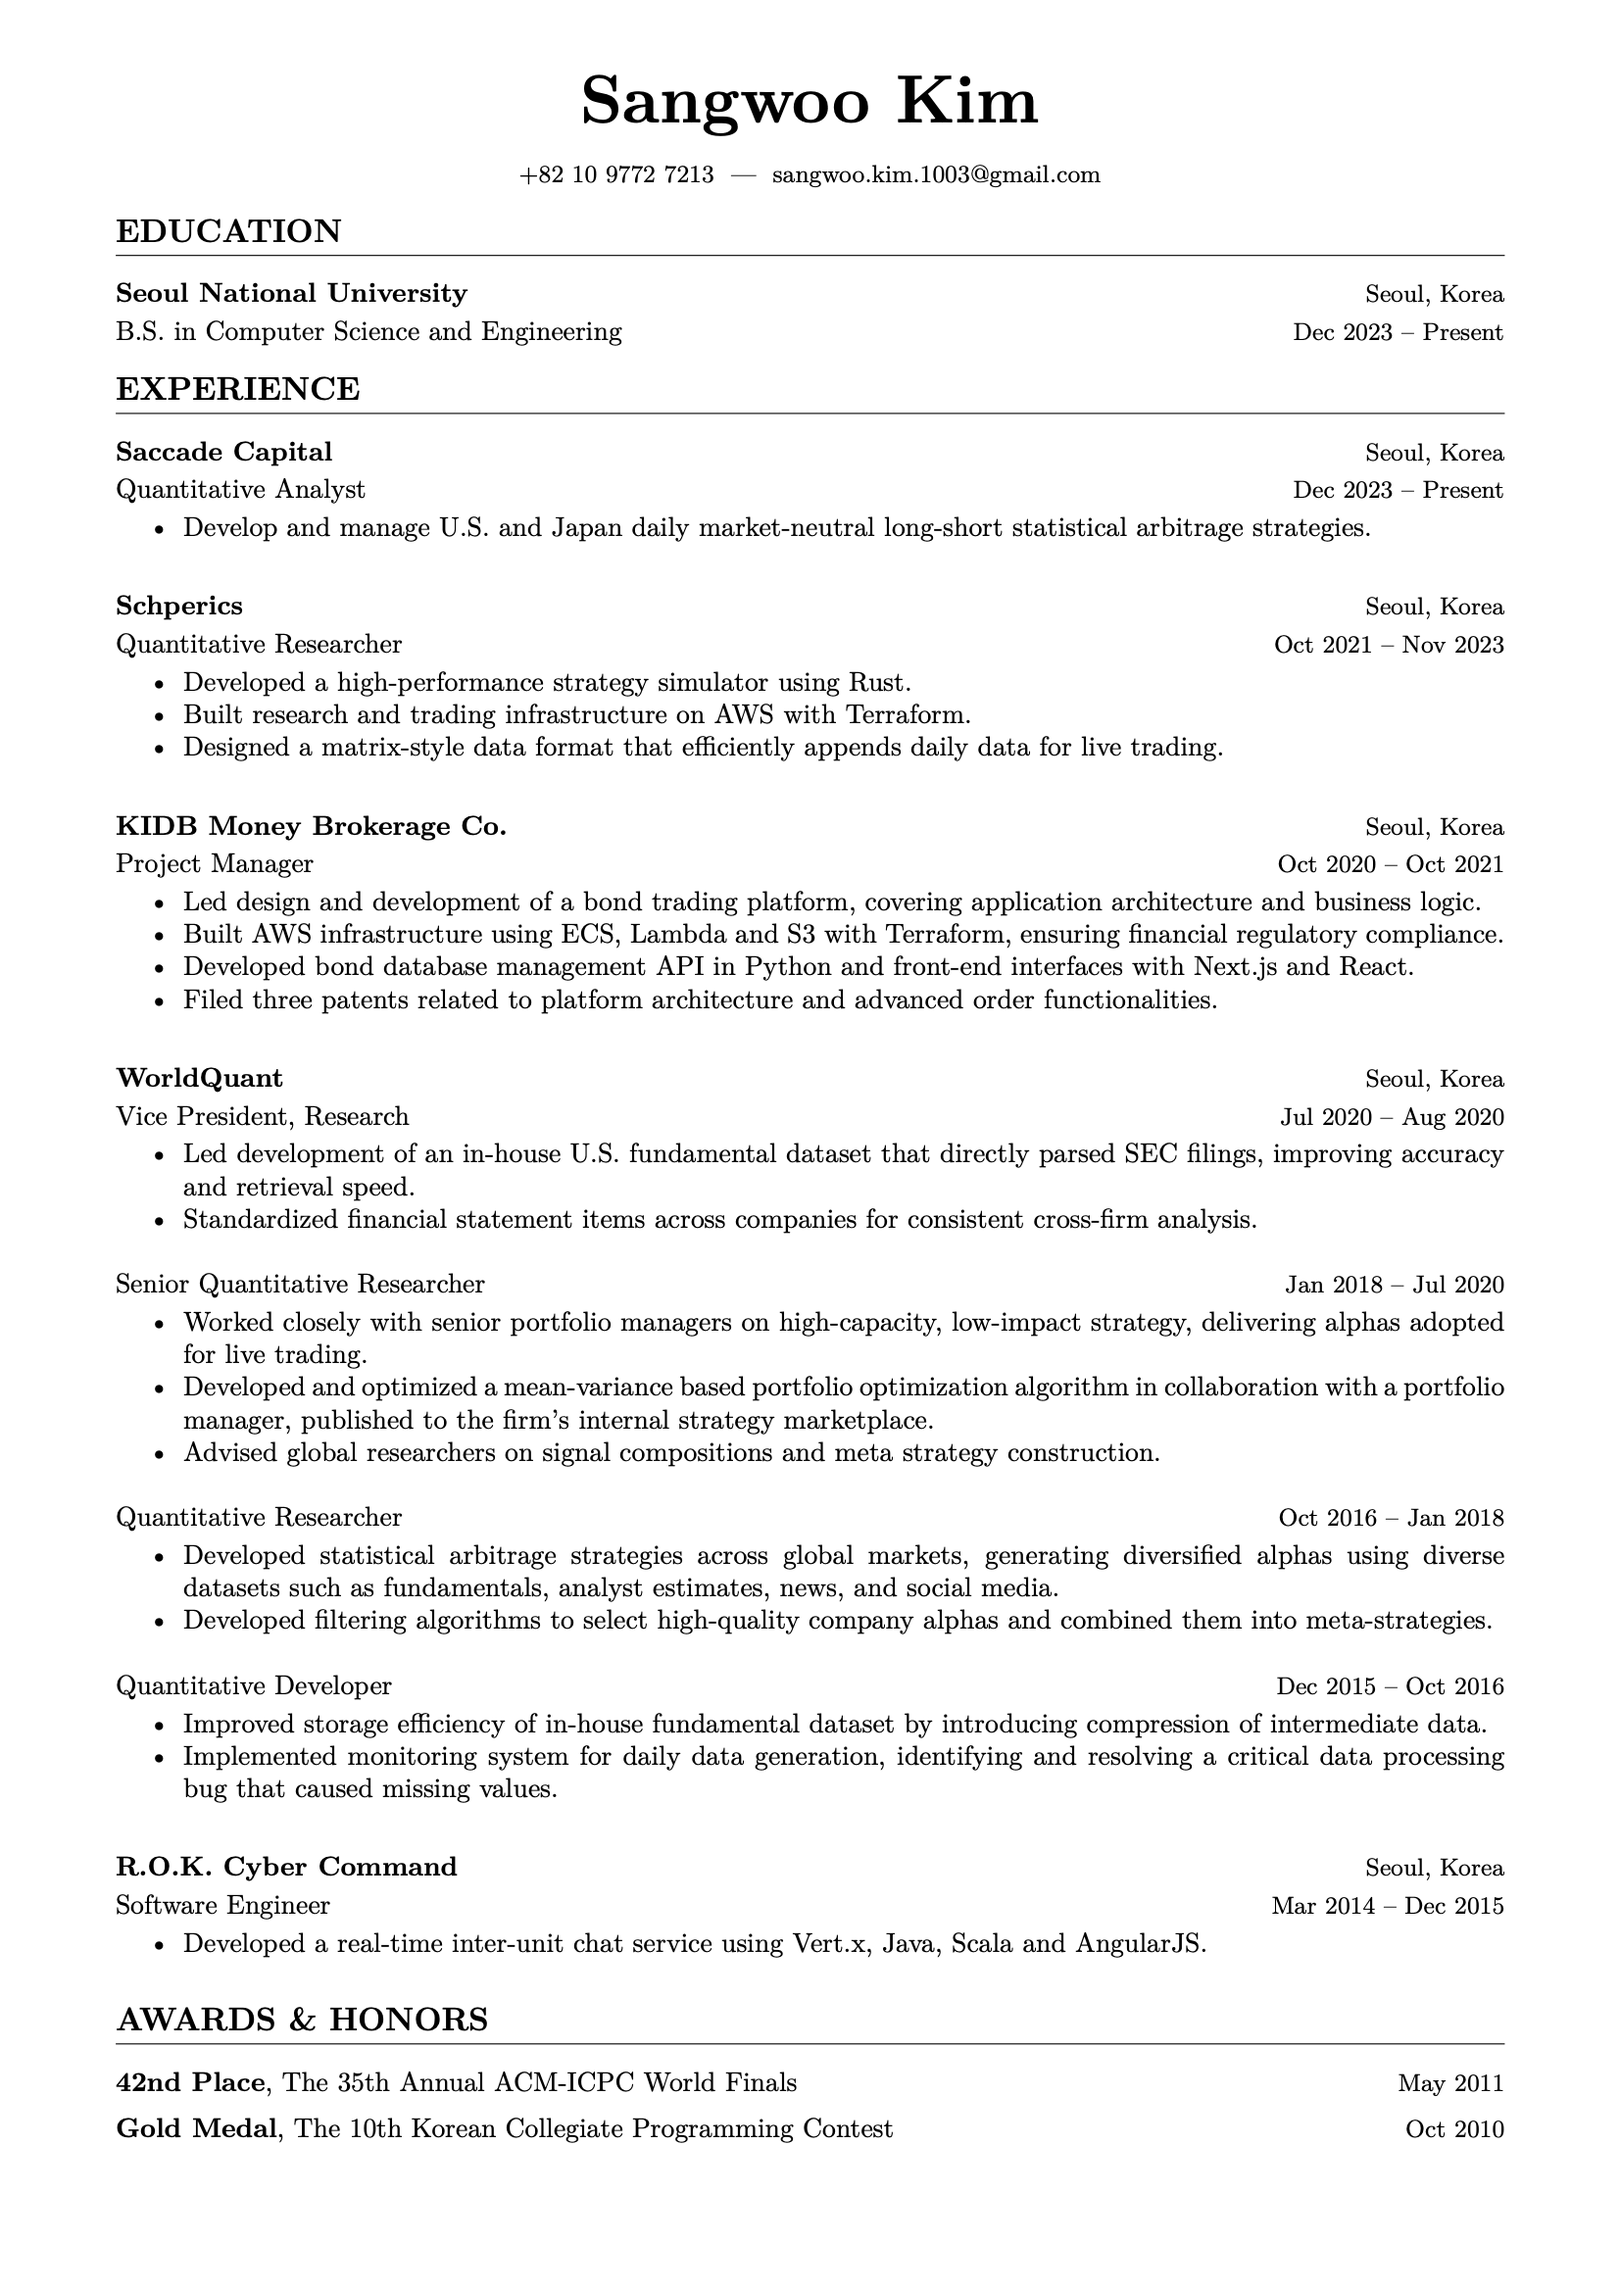
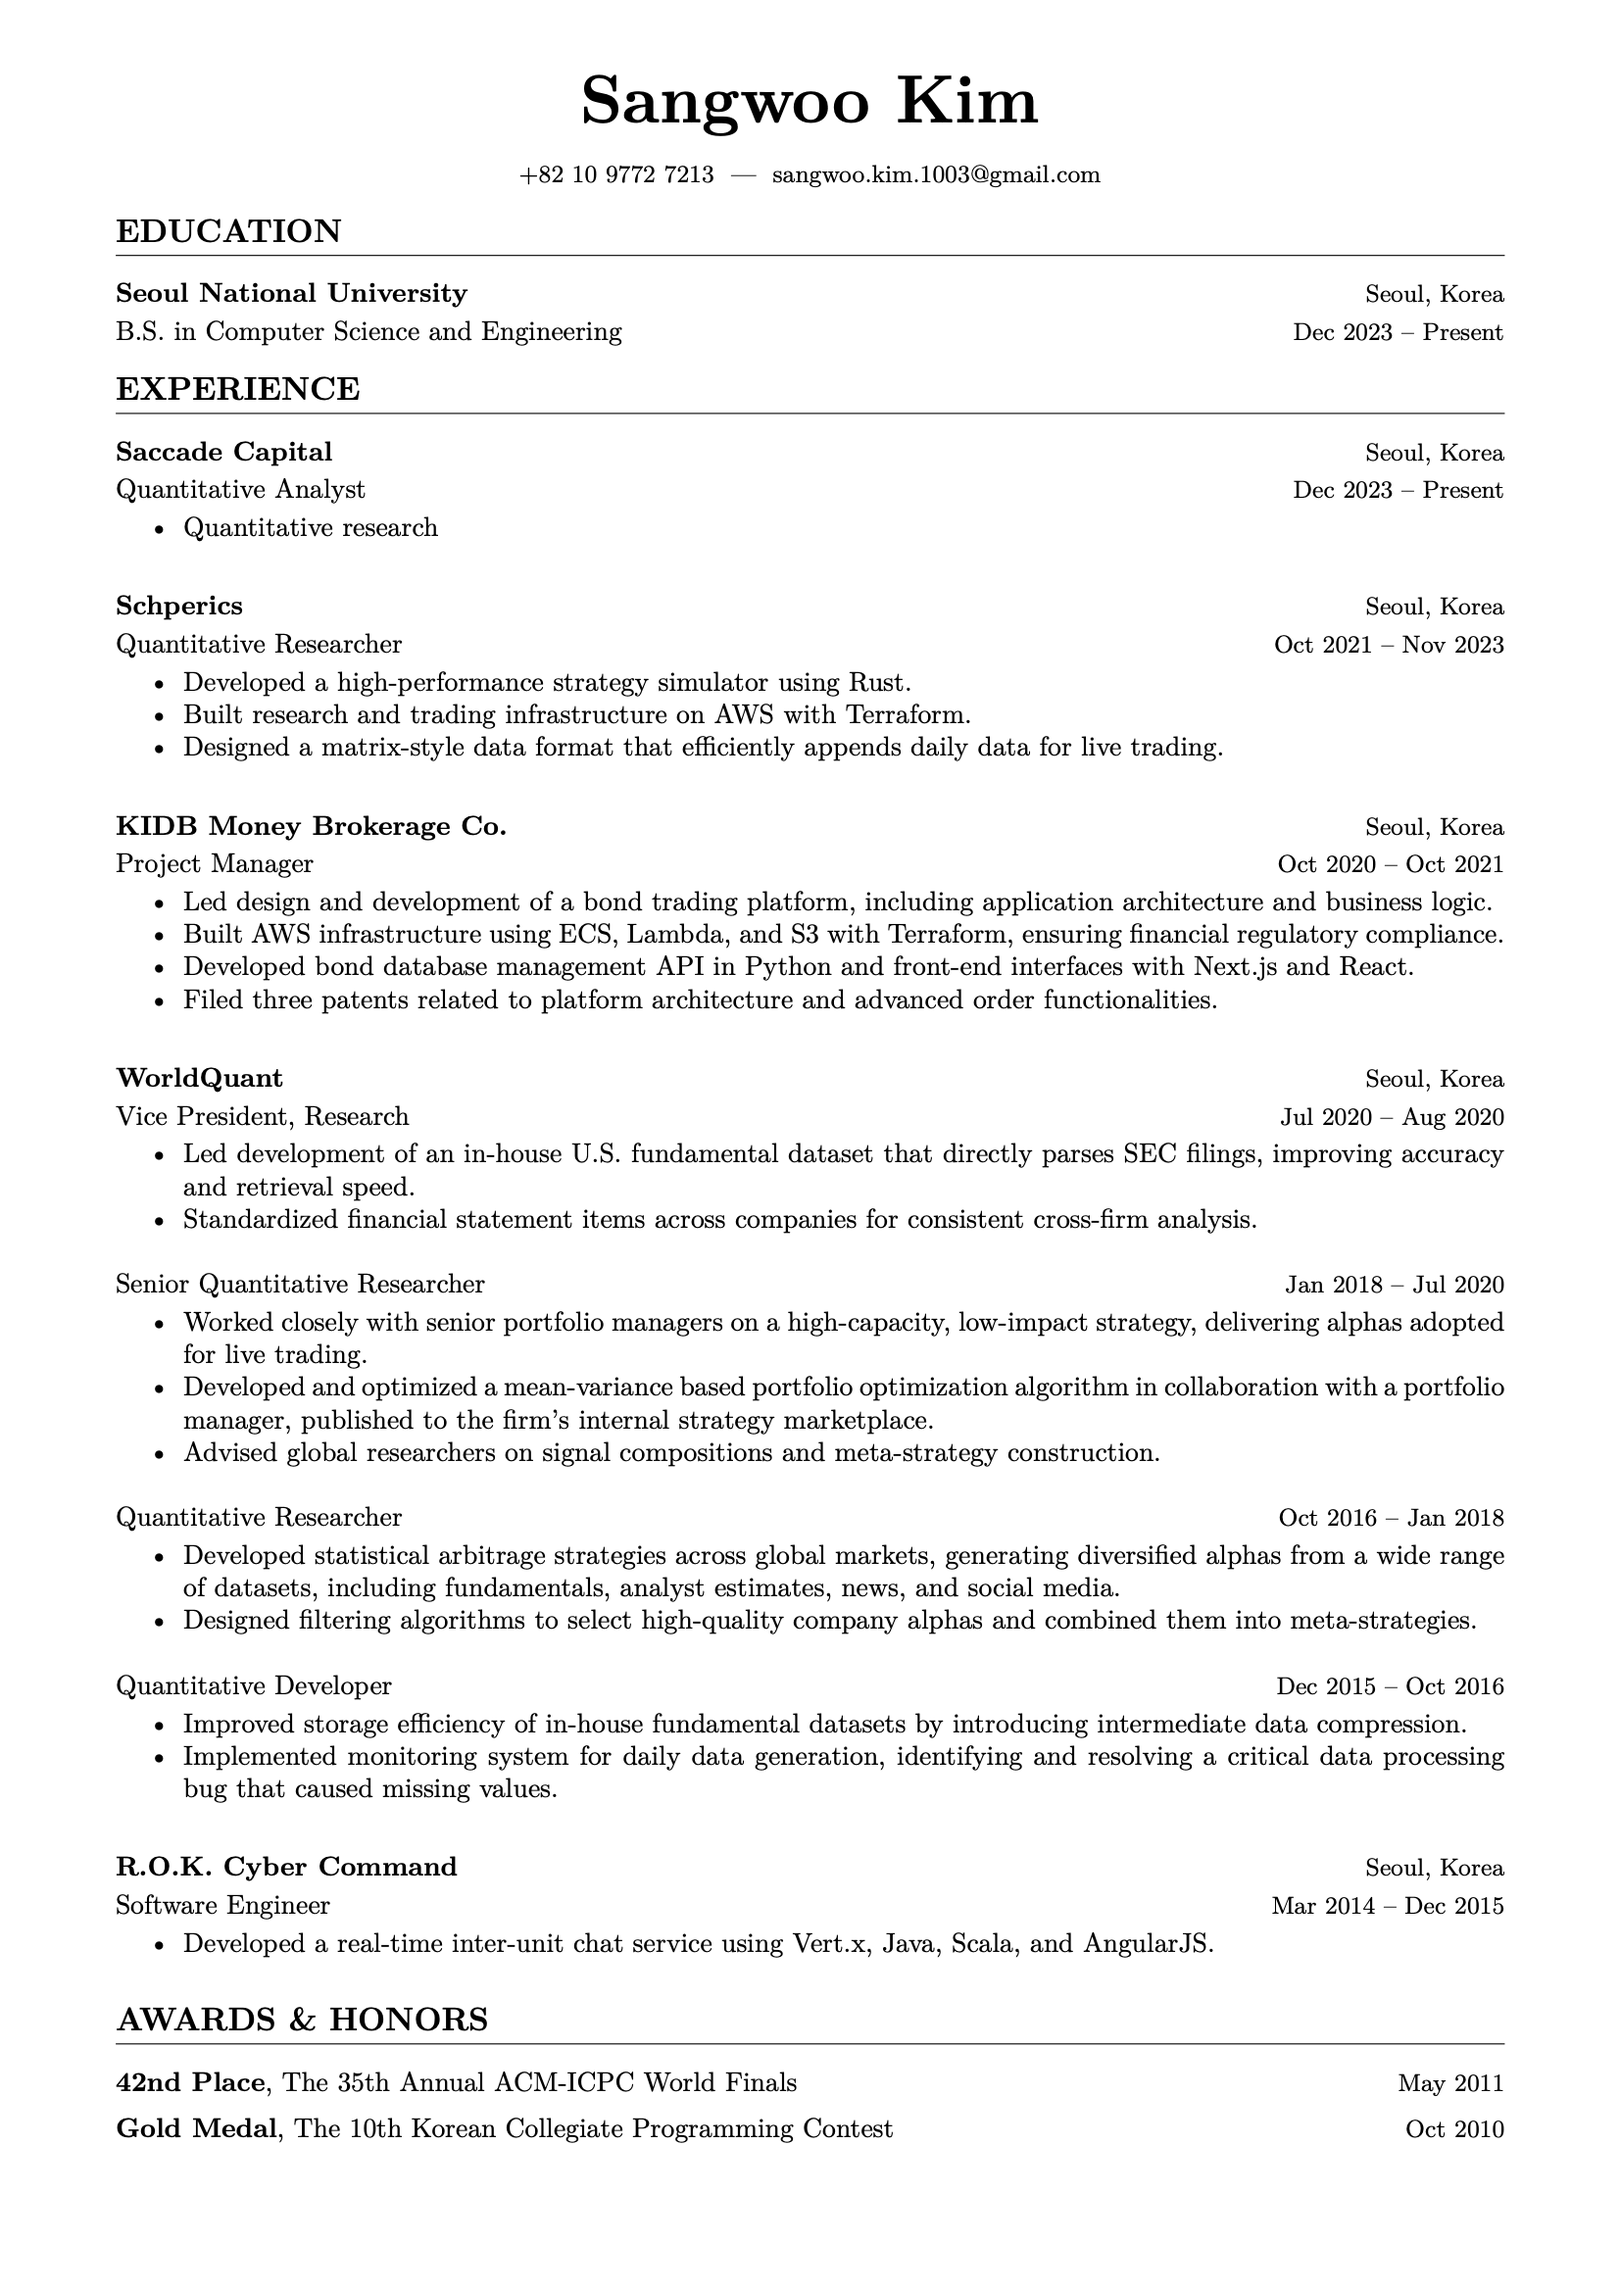
Simplify the most recent entry

diff --git a/resume.tex b/resume.tex
@@ -16,7 +16,7 @@
 \ResumeSection{Experience}
 \ResumeEntry{Saccade Capital}{Seoul, Korea}{%
     \RoleEntry{Quantitative Analyst}{Dec 2023 -- Present}{%
-        \item Develop and manage daily market-neutral long–short statistical arbitrage strategies in U.S. and Japan markets.
+        \item Quantitative research
     }
 }
 
